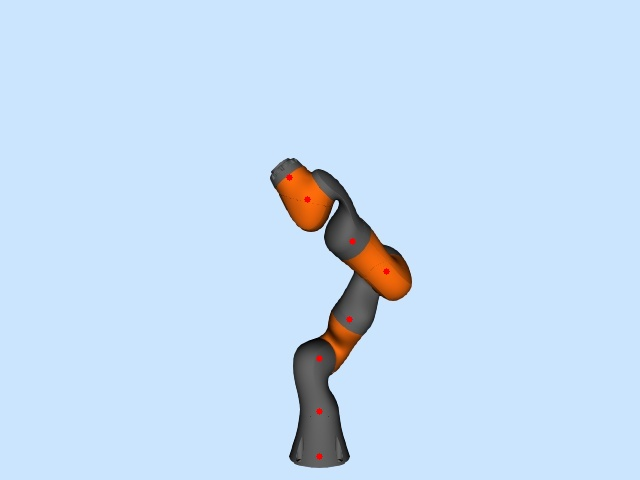
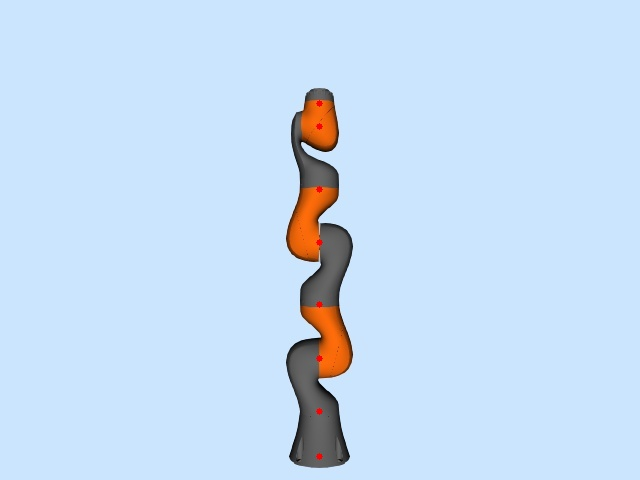
generate dataset for straight arm position

Changed region(s): [[0.4062, 0.1875, 0.6562, 0.8438]]

diff --git a/DrakeDataCapture/data_generation_kuka_arm.py b/DrakeDataCapture/data_generation_kuka_arm.py
@@ -243,11 +243,11 @@ def create_scene(sim_time_step=0.0001, n_cameras = 1, n_tracks = 1):
     projection_matrices = []
 
     #generate points in a circle around the arm for a particular radius
-    r = 2
+    r = 0.25    #not required
     centerX = 0
     centerY = 0
     theta = np.linspace(0, 360, num=n_cameras)
-    rad = np.linspace(2, 6, num = n_tracks)
+    rad = np.linspace(2, 4, num = n_tracks)
     for r in rad:
         for t in theta:
             x = centerX + r * np.cos(t)
@@ -443,8 +443,8 @@ def orient_arms(diagram, builder, plant, visualizer, scene_graph, iiwa_controlle
 
     #step2: change individual link positions
     # iiwa_controller = iiwa_controller_fn(builder, plant, model)
-    # position_vector = [0.0, 0.0, 0.0, 0.0, 0.0, 0.0, 0.0]
-    position_vector = [1, 0.7, 1, 1.3, 1.5, 0.65, 0.6]   #these are angles in radians at each joint
+    position_vector = [0.0, 0.0, 0.0, 0.0, 0.0, 0.0, 0.0]
+    # position_vector = [1, 0.7, 1, 1.3, 1.5, 0.65, 0.6]   #these are angles in radians at each joint
     context, plant_context = iiwa_position_set(context, plant, diagram, iiwa_controller, position_vector, model)
 
     #step3: get 3d points in that particular arm conf
@@ -470,7 +470,7 @@ def create_json(arm_conf_name, P, key_points_3d):  #n*3   (n = 7)
     key_points_2d = kp_homogenous_2d[:, :2]  #n*2
 
     #overlay 2d kps on image (use below snippet just for testing)
-    
+
     # current_img = cv2.imread(arm_conf_name + '.jpg')
     # print('img_shape:{}'.format(current_img.shape))
     # for kp_2d in key_points_2d:
@@ -508,8 +508,8 @@ def generate_dataset(args, sim_time_step):
     #initalize count of pics taken in simulation
     sim_count_pic = 1
     #transformations b/w every pair of cameras in multi camera system
-    n_cameras = 7
-    n_tracks = 2
+    n_cameras = 30
+    n_tracks = 20
     diagram, builder, plant, plant_context, visualizer, scene_graph, iiwa_controller, sensors, model, projection_matrices = create_scene(sim_time_step, n_cameras, n_tracks)
 
     print('total no of sensors: {}'.format(len(sensors)))
@@ -518,7 +518,8 @@ def generate_dataset(args, sim_time_step):
         for camera_no in range(n_cameras):
             n_times = 0
             n_arm_conf = 0  #conf of arm in current camera position
-            while(True):    # we can orient diff joints of arm and take pic (TakePic is called inside orient_arms)
+            # while(True):    # we can orient diff joints of arm and take pic (TakePic is called inside orient_arms)
+            for i in range(1):
                 key_points_3d, color, depth, arm_conf_name = orient_arms(diagram, builder, plant, visualizer, scene_graph, iiwa_controller, model, sensors[(track_no * n_cameras) + camera_no], diagram.CreateDefaultContext(), plant_context, camera_no, track_no, sim_count_pic)
                 images_sensors.append((color, depth))
                 n_arm_conf = n_arm_conf + 1
@@ -527,13 +528,13 @@ def generate_dataset(args, sim_time_step):
                 #create json file based on the above information of 3d key points of joints and Projection matrix of current sensor
                 create_json(arm_conf_name, P, key_points_3d)
 
-                if(n_times == 1):
-                    break
+            # if(n_times == 1):
+            #     break
 
-                # if(keyboard.is_pressed('q')):
-                #     break
+            # # if(keyboard.is_pressed('q')):
+            # #     break
 
-                n_times = n_times + 1
+            # n_times = n_times + 1
 
     # model_file = 'clutter_maskrcnn_model.pt'
     # if not os.path.exists(model_file):
